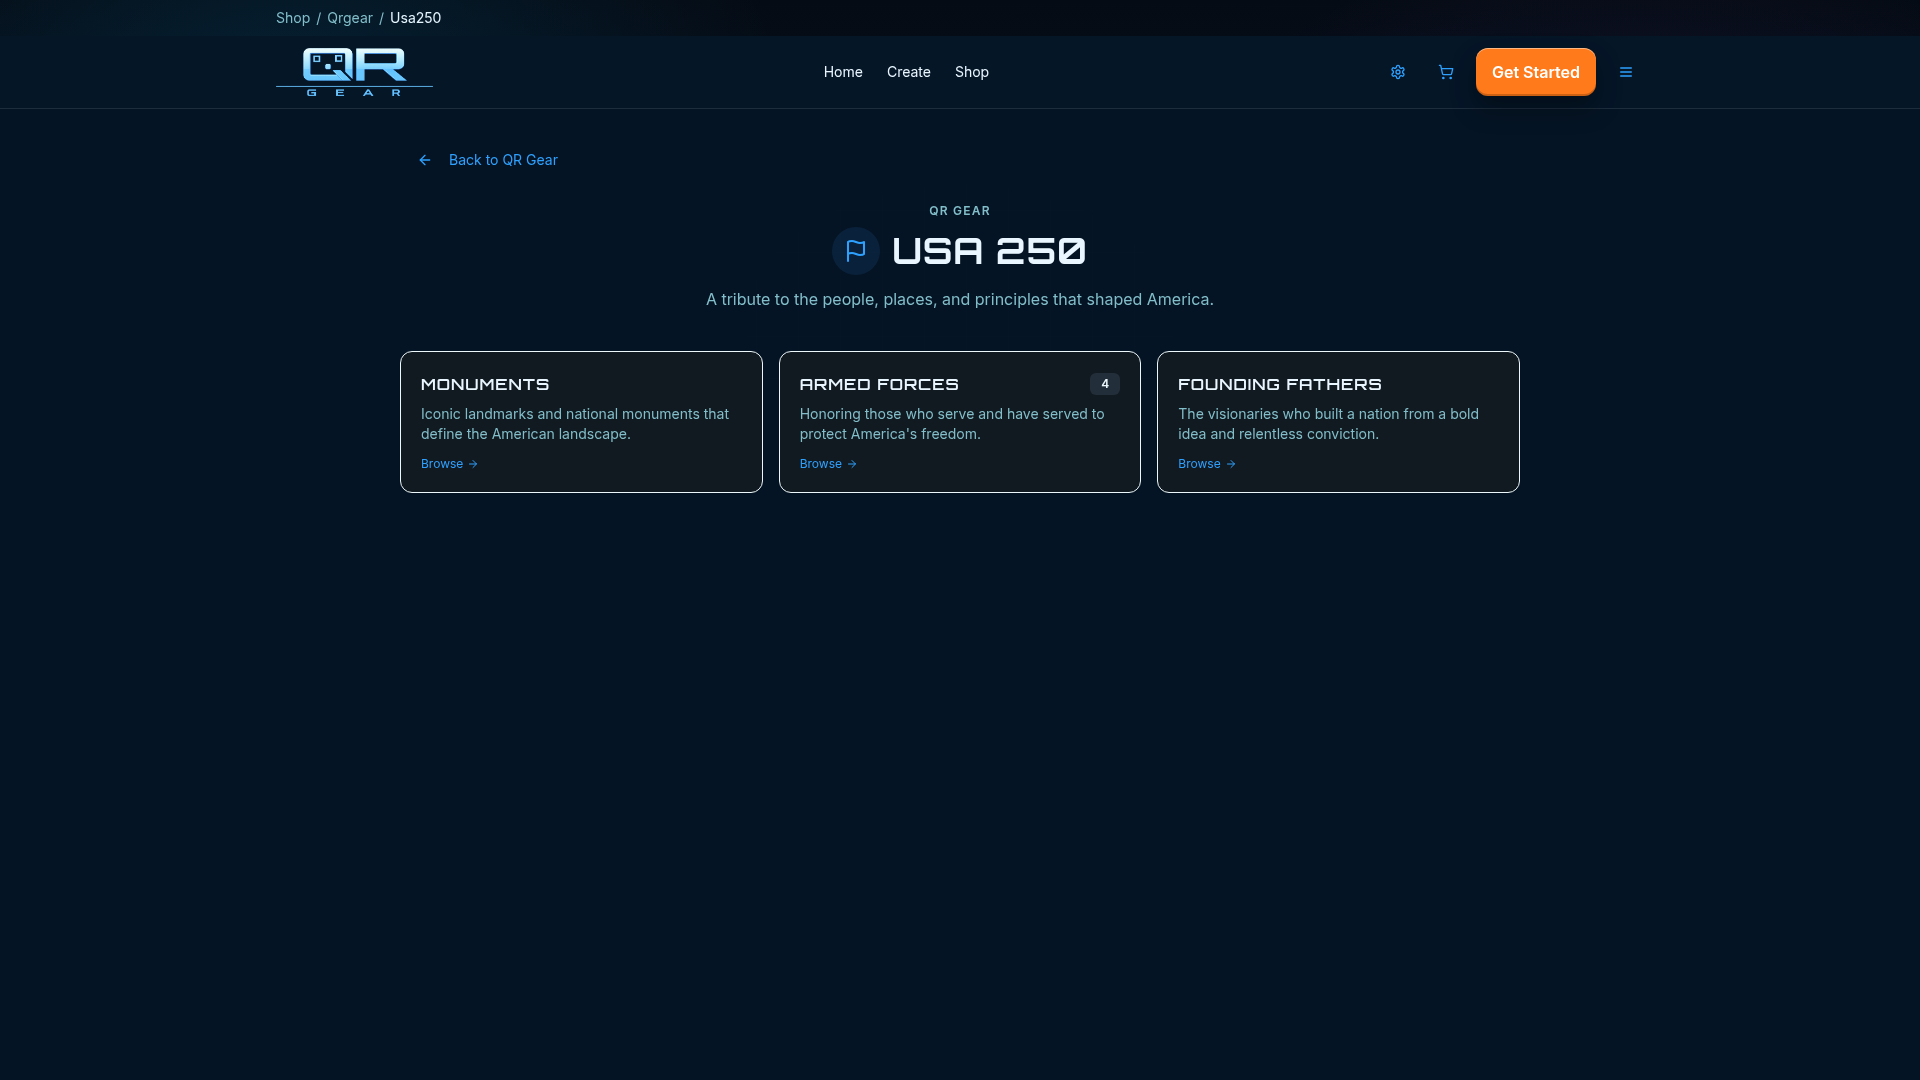
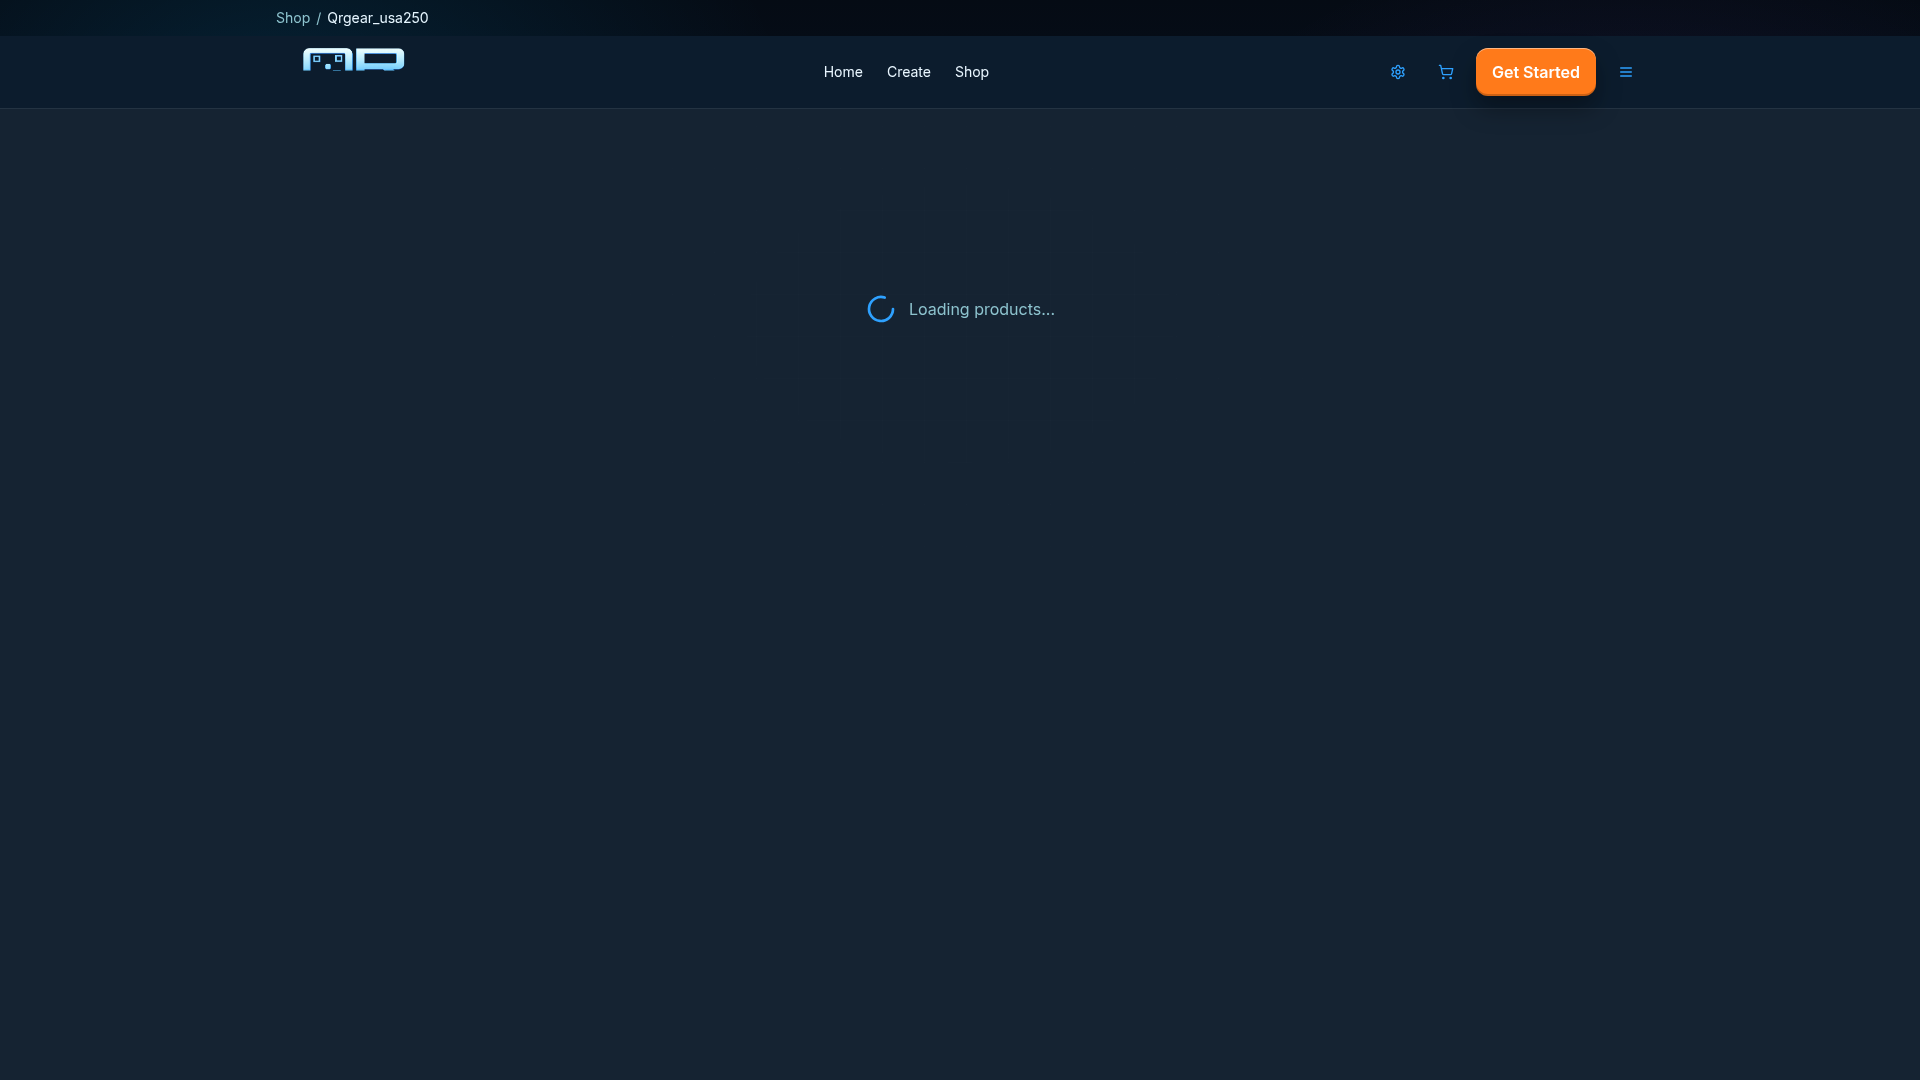
Prioritize public image URLs for product builder rendering
Prefer public GCS URLs over authenticated proxy URLs when selecting images for product zones to ensure proper rendering in the canvas builder.

Replit-Commit-Author: Agent
Replit-Commit-Session-Id: e9c280b4-8178-4da4-b8ea-9a0d4027a32a
Replit-Commit-Checkpoint-Type: full_checkpoint
Replit-Commit-Event-Id: 1a094d63-9e76-4ef7-8cd2-126ad3327d59
Replit-Commit-Screenshot-Url: https://storage.googleapis.com/screenshot-production-us-central1/5fbed902-5faa-41c1-ba53-04d4cf8e6fef/e9c280b4-8178-4da4-b8ea-9a0d4027a32a/0DCI4jZ
Replit-Helium-Checkpoint-Created: true

diff --git a/client/src/features/adminProducts/builder/modules/ProductGraphicTextModule.tsx b/client/src/features/adminProducts/builder/modules/ProductGraphicTextModule.tsx
@@ -241,7 +241,10 @@ function ImageLibraryDialog({
                 className="w-full"
                 size="lg"
                 onClick={() => {
-                  const url = selectedImage.proxyUrl || selectedImage.publicUrl || selectedImage.storageUrl;
+                  // Prefer the public GCS URL so the canvas renderer (new Image()) can
+                  // load it without auth headers. proxyUrl is auth-gated and only works
+                  // for <img> tags in the admin session — not for canvas drawImage().
+                  const url = selectedImage.publicUrl || selectedImage.proxyUrl || selectedImage.storageUrl;
                   onSelect(url);
                   setSelectedImage(null);
                   onClose();

diff --git a/functions/lib/functions/src/index.js b/functions/lib/functions/src/index.js
@@ -4,7 +4,7 @@ var __importDefault = (this && this.__importDefault) || function (mod) {
 };
 Object.defineProperty(exports, "__esModule", { value: true });
 exports.BUILD_TAG = exports.api = void 0;
-const _BUILD_ID = '20260509-214224-27830';
+const _BUILD_ID = '20260509-215711-18291';
 process.env.QRGEAR_BUILD_ID = _BUILD_ID;
 console.log('[CF Boot] Build:', _BUILD_ID);
 const https_1 = require("firebase-functions/v2/https");

diff --git a/functions/src/index.ts b/functions/src/index.ts
@@ -1,4 +1,4 @@
-const _BUILD_ID = '20260509-214224-27830';
+const _BUILD_ID = '20260509-215711-18291';
 process.env.QRGEAR_BUILD_ID = _BUILD_ID;
 console.log('[CF Boot] Build:', _BUILD_ID);
 import { onRequest } from 'firebase-functions/v2/https';
